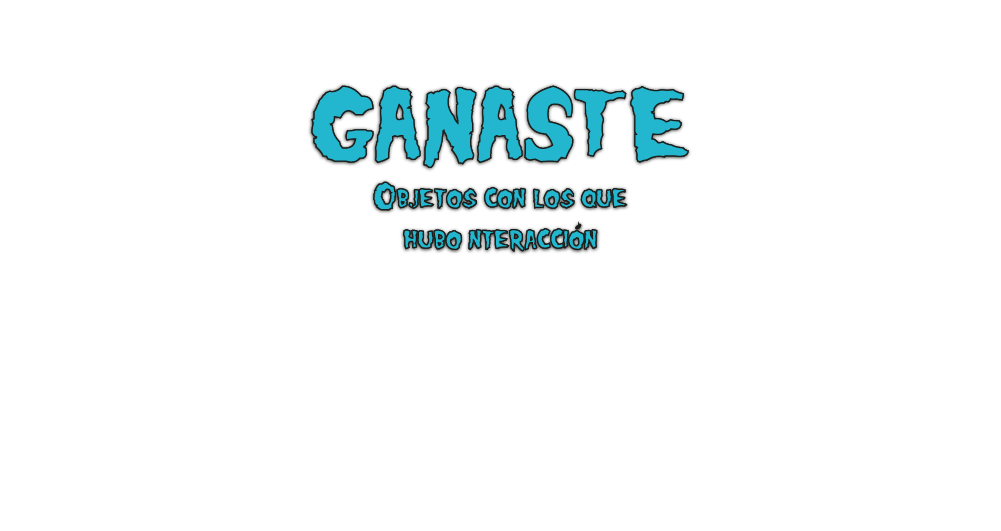
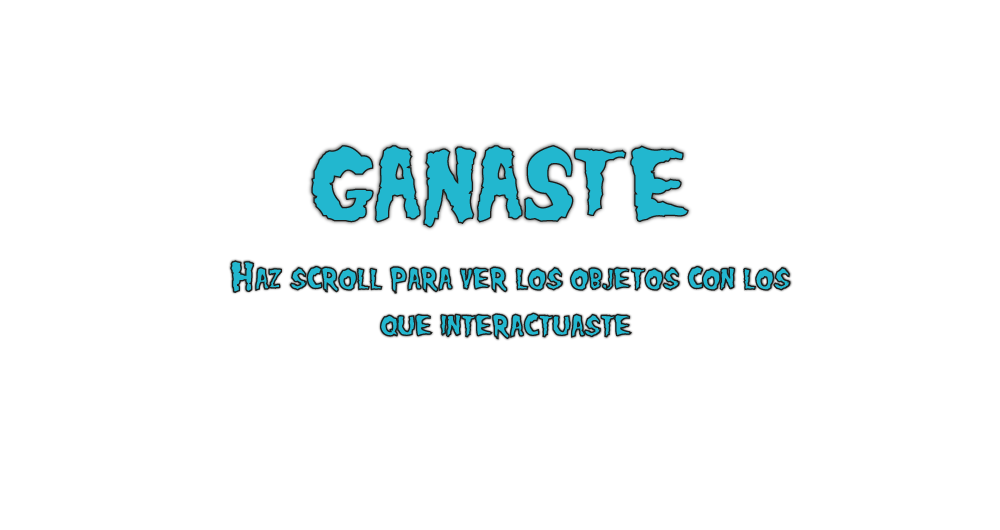
Pantalla de resumen
Casi lista la pantla final

Changed region(s): [[0.217, 0.1509, 0.806, 0.6642]]

diff --git a/tallerRickAndMorty/src/view/ResumeScreen.js b/tallerRickAndMorty/src/view/ResumeScreen.js
@@ -1,13 +1,85 @@
-class ResumeView{
+class ResumeScreen{
     constructor(){
         this.app; 
-        this.fondo3=[]; 
-        this.contador3; 
+        this.fondo3=[];
+        this.fondoFondo;
+        this.contador3 = 1; 
+        this.posYimagenes = 0;
+        this.resumeController = new ResumeController();
+        this.ganaste;
+        this.perdiste;
+        this.botonTXT;
+        this.botonTXTF;
+        this.tocoBoton = false;
+        
     }
     cargarImagenesRS(){
-        
+
+        for(let i=1;i<119;i++) {
+            this.fondo3[i]=loadImage("Rick-Lab/lab"+" "+"("+i+").jpg");
+        } 
+
+        this.fondoFondo = loadImage("images/resumeFondo.png");
+        this.ganaste = loadImage("images/ganaste.png");
+        this.perdiste = loadImage("images/perdiste.png");
+        this.botonTXT = loadImage("images/botonNuevotxt.png");
+        this.botonTXTF = loadImage("images/botonNuevotxtFeed.png");
     }
-    pintarFondo(){
+    pintarResume(){
+
+        image(this.fondoFondo,0,0);
+        if (this.tocoBoton) {
+            image(this.botonTXTF,370,430);
+        }else{
+
+            image(this.botonTXT,370,430);
+        }
         
+
+        image(this.fondo3[this.contador3], 0, this.posYimagenes,1000,530);
+		if(frameCount %2==0) {
+            this.contador3 ++;
+			if(this.contador3>115) {
+				this.contador3=1;
+			}
+        }
+        if (this.resumeController.getGano()) {
+            image(this.ganaste,0,this.posYimagenes)
+        }else{
+            image(this.perdiste,0,this.posYimagenes)
+        }
+    }
+
+    parallax(c){
+        //this.posYimagenes+= c;
+        if (this.posYimagenes < -530) {
+            this.posYimagenes = -530;
+        } else {
+            this.posYimagenes -= c;
+        }
+
+        if (this.posYimagenes > 0) {
+            this.posYimagenes = 0;
+        } else {
+            this.posYimagenes -= c;
+        }
+    }
+
+    guardarTXT(){
+        console.log("Valido guardarTXT")
+        if((mouseX > 370 && mouseX <(370+this.botonTXT.width) && mouseY > 430 && mouseY < (430+this.botonTXT.height))){
+            this.resumeController.guardarTXT();
+        }
+    }
+    moveBoton(){
+        if((mouseX > 370 && mouseX <(370+this.botonTXT.width) && mouseY > 430 && mouseY < (430+this.botonTXT.height))){
+
+            console.log("Valido Feed boton txt")
+            this.tocoBoton = true;
+        }else{
+            this.tocoBoton = false;
+        }
+
+            
     }
 }

diff --git a/tallerRickAndMorty/src/model/Logic.js b/tallerRickAndMorty/src/model/Logic.js
@@ -5,6 +5,7 @@ class Logic {
         this.ensayo;
         this.ensa = [];
         this.arma;
+        this.nuevoTXT=[];
 
         this.ganaste;
         this.rickImage;
@@ -39,6 +40,8 @@ class Logic {
         this.conPisto;
         this.conPistoF;
         this.paso = false;
+
+        this.gano = false;
 
     }
     cargarTXT() {
@@ -77,7 +80,9 @@ class Logic {
     }
     recorrerTXT() {
         this.ensayo = join(this.txtOriginal, " ");
-        //this.ensa = split(this.ensayo, " ");
+        
+        console.log (this.ensayo);
+
         if (this.ensayo.includes("Rick and morty")) {
             console.log("Si hay rick")
             this.rickAndMorty = new RickYMorty(170, 150, this.rickImage, this.rickImageFeedBack, this.conPisto, this.conPistoF);
@@ -167,7 +172,7 @@ class Logic {
         for (let i = 0; i < this.semillas.length; i++) {
             this.semillas[i].tocoClick();
         }
-
+        this.modificarTxt();
     }
 
     getDimension() {
@@ -196,10 +201,10 @@ class Logic {
         }
         for (let se = 0; se < this.semillas.length; se++) {
 
-            let palabras = "mega semillas";
-            this.ensayo.replace(palabras, palabras.toUpperCase());
+            
             if (this.semillas[se].getSelected()) {
-
+                let palabras = "mega semillas";
+                this.ensayo.replace(palabras, palabras.toUpperCase());
                 break;
             }
 
@@ -212,8 +217,32 @@ class Logic {
 
     }
     guardarNuevoTxt() {//este tampoco
+        this.ensa = split(this.ensayo, " ");
 
-        saveStrings(this.ensayo, '../data/Import/CuentoModificado.txt');
+        saveStrings(this.ensa, 'CuentoModificado.txt');
+
+    }
+
+    getGano(){
+        return this.gano;
+    }
+
+    pintarResume(){
+        if (this.rickAndMorty.getSelected()) {
+            
+        }
+        for (let se = 0; se < this.semillas.length; se++) {
+
+            
+            if (this.semillas[se].getSelected()) {
+                
+            }
+
+        }
+
+        if (this.gun.getSelected()) {
+            
+        }
 
     }
 

diff --git a/tallerRickAndMorty/src/view/MainView.js b/tallerRickAndMorty/src/view/MainView.js
@@ -3,6 +3,7 @@ let startScreen = new StartScreen();
 let gameScreen = new GameScreen();
 let preIntro = new PreIntro();
 let dimensionScreen = new DimensionScreen();
+let resumeScreen = new ResumeScreen();
 let pantalla;
 var introSound;
 
@@ -16,6 +17,7 @@ function preload() {
     gameScreen.cargarTXT();
     dimensionScreen.cargarTXT();
     dimensionScreen.cargaImagenesDS();
+    resumeScreen.cargarImagenesRS();
     this.introSound = loadSound("sfx/IntroSound.mp3");
 
 }
@@ -24,7 +26,7 @@ function setup() {
     createCanvas(1000, 530);
     gameScreen.recorrerTXT();
     dimensionScreen.recorrerTXTDimension();
-    this.pantalla = 2;
+    this.pantalla = 4;
     introSound.play();
     introSound.setVolume(0.5);
 
@@ -67,7 +69,9 @@ function draw() {
             break;
 
         case 4: //resumen
+            resumeScreen.pintarResume();
 
+        
             break;
     }
 }
@@ -99,7 +103,9 @@ function mouseClicked() {
             dimensionScreen.contaSemillas();
             dimensionScreen.tocoSemillas();
             break;
-
+        case 4:
+            resumeScreen.guardarTXT();
+        break;
 
     }
 }
@@ -115,12 +121,25 @@ function mouseMoved() {
         case 1:
 
             break;
+
+        case 4:
+            resumeScreen.moveBoton();
+        break;
     }
 }
 function keyPressed() {
     gameScreen.teclas(key);
     dimensionScreen.teclasDS(key);
+}
 
-
+function mouseWheel(){
+    switch (this.pantalla) {
+        case 4:
+            resumeScreen.parallax(event.delta);
+            break;
+       
+    }
+    
+    
 }
 

diff --git a/tallerRickAndMorty/index.html b/tallerRickAndMorty/index.html
@@ -22,12 +22,14 @@
     <script src="./src/controller/ResumeController.js"></script>
     <script src="./src/controller/StartController.js"></script>
     <script src="./src/controller/DimensionController.js"></script>
+  
 
     <script src="./src/view/GameScreen.js"></script>
     <script src="./src/view/PreIntro.js"></script>
     <script src="./src/view/ResumeScreen.js"></script>
     <script src="./src/view/StartScreen.js"></script>
     <script src="./src/view/DimensionScreen.js"></script>
+    
     <script src="./src/view/MainView.js"></script>
 
     

diff --git a/tallerRickAndMorty/src/controller/ResumeController.js b/tallerRickAndMorty/src/controller/ResumeController.js
@@ -1,5 +1,13 @@
 class ResumeController{
     constructor(){
         this.app; 
+        this.model = new Logic();
+    }
+
+    getGano(){
+        return this.model.getGano();
+    }
+    guardarTXT(){
+        this.model.guardarNuevoTxt();
     }
 }

diff --git a/tallerRickAndMorty/src/view/GameScreen.js b/tallerRickAndMorty/src/view/GameScreen.js
@@ -47,5 +47,8 @@ class GameScreen{
     getPaso(){
         return this.gameController.getPaso();
     }
+    getFondo(){
+        return this.fondo;
+    }
 
  }
